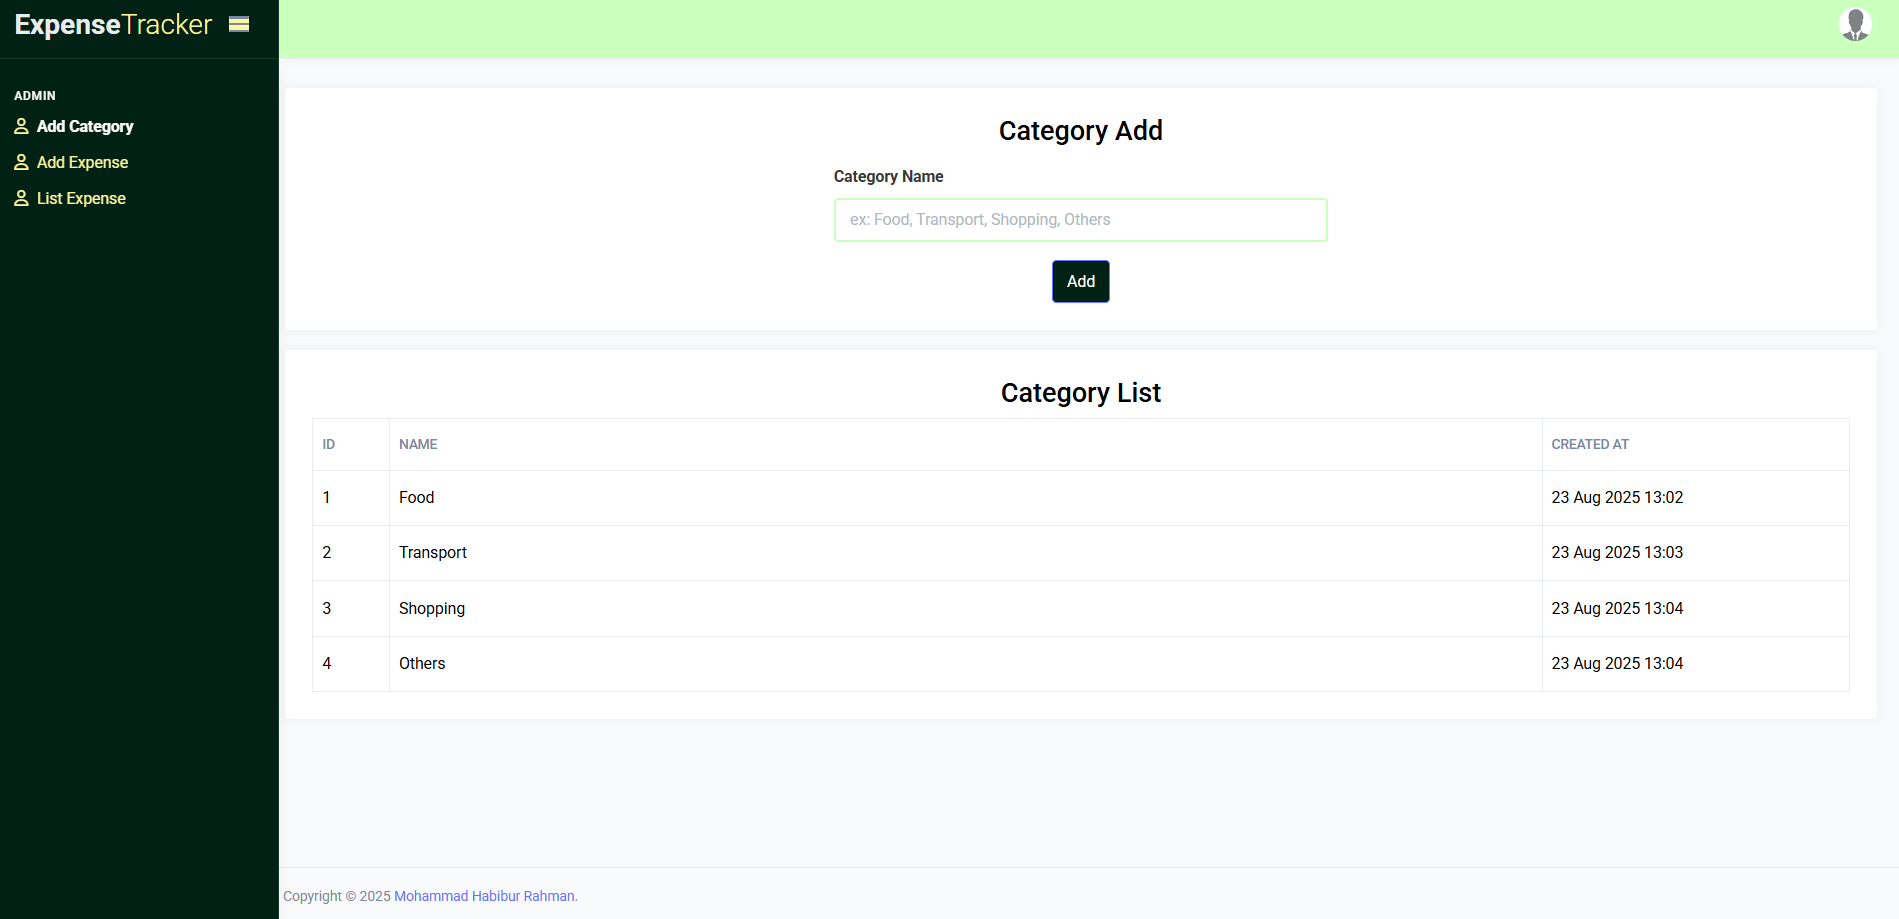
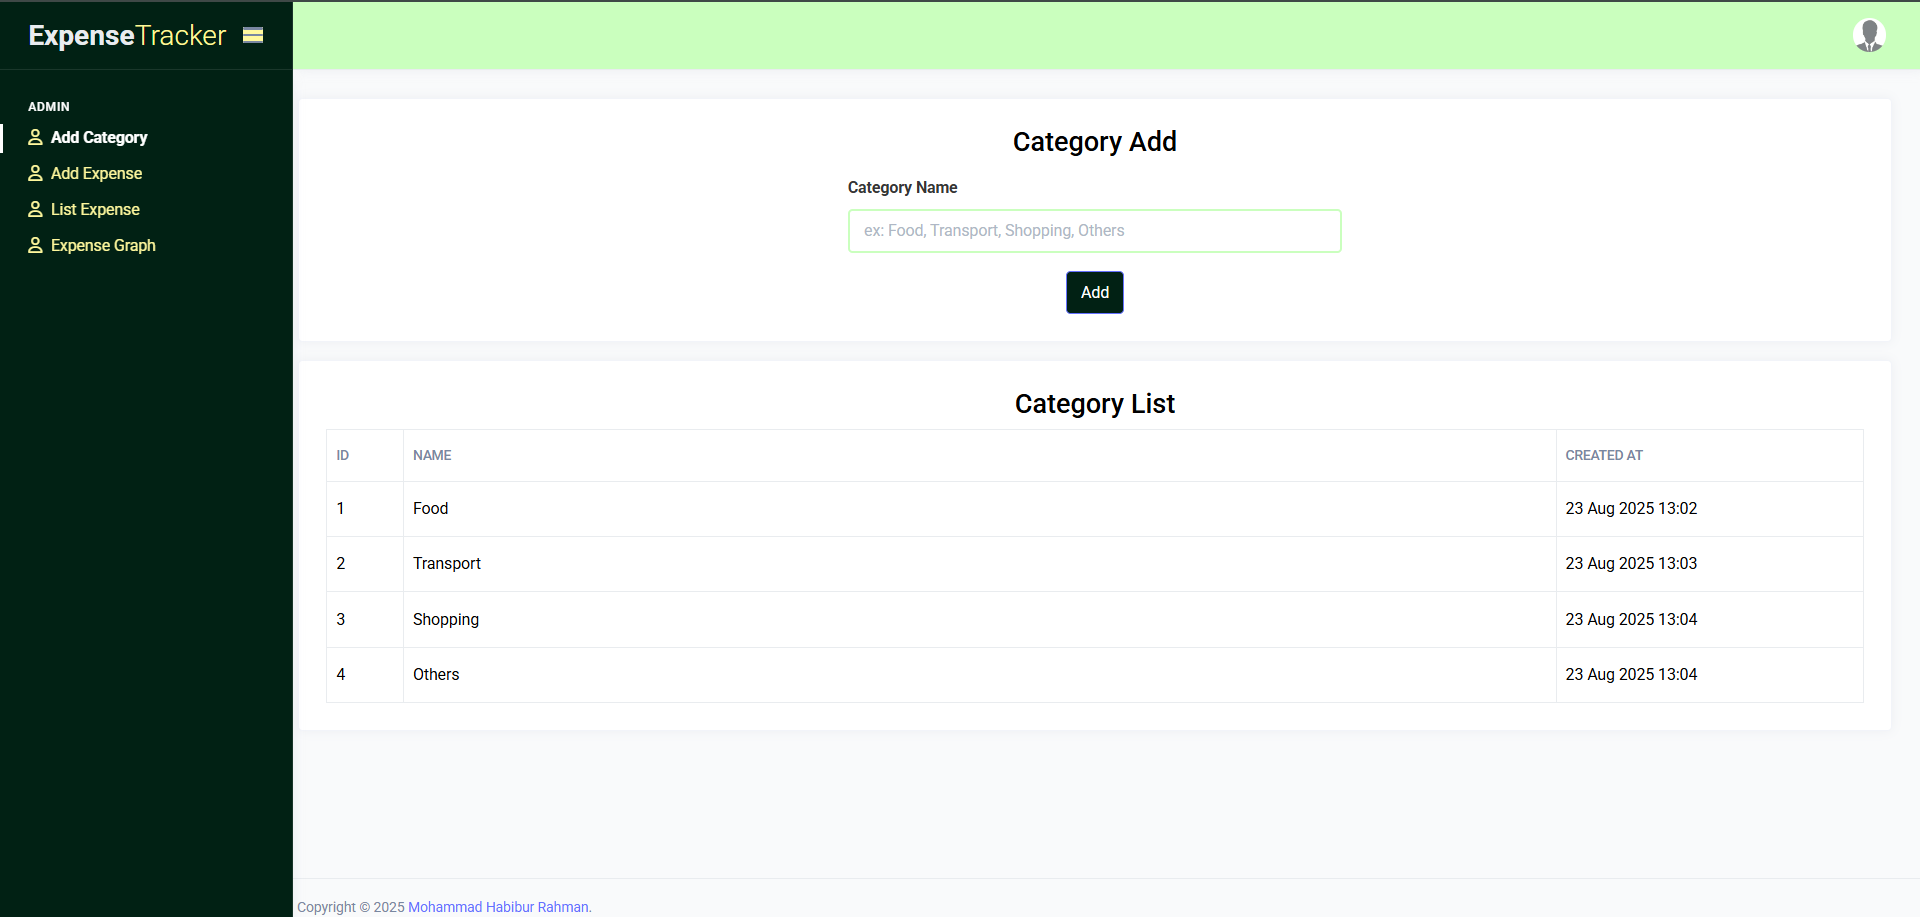
added-chart

diff --git a/resources/views/backend/pages/list_expense.blade.php b/resources/views/backend/pages/list_expense.blade.php
@@ -1,24 +1,17 @@
 @extends('backend.includes.backend_layout')
+
 @section('content')
 <div class="page-content">
     <div class="row justify-content-center">
-        <div class="col-md-10">
+        <div class="col-md-11">
             <div class="card">
                 <div class="card-body">
-                    <h3 class="text-center mb-2">{{ $data['page_title'] }}</h3>
-
-                    @if(session('success'))
-                        <div class="alert alert-success">{{ session('success') }}</div>
-                    @endif
-
                     <table class="table table-bordered">
                         <thead>
                             <tr class="table-primary">
                                 <th colspan="3" class="text-end fw-bold text-danger">Total Amount:</th>
                                 <th class="fw-bold text-danger">{{ $data['expenses']->sum('amount') }}</th>
                             </tr>
-
-
                             <tr>
                                 <th>ID</th>
                                 <th>Category</th>
@@ -29,7 +22,7 @@
                         <tbody>
                             @forelse($data['expenses'] as $index => $expense)
                                 <tr>
-                                    <td>{{ $index+1 }}</td>
+                                    <td>{{ $index + 1 }}</td>
                                     <td>{{ $expense->category->name ?? 'N/A' }}</td>
                                     <td>{{ $expense->title }}</td>
                                     <td>{{ $expense->amount }}</td>
@@ -41,10 +34,9 @@
                             @endforelse
                         </tbody>
                     </table>
-
                 </div>
             </div>
         </div>
     </div>
 </div>
-@endsection
+@endsection 

diff --git a/app/Http/Controllers/backend/ExpenseController.php b/app/Http/Controllers/backend/ExpenseController.php
@@ -1,8 +1,8 @@
 <?php
 
 namespace App\Http\Controllers\backend;
-
 use PDOException;
+use Carbon\Carbon;
 use App\Models\Expense;
 use App\Models\Category;
 use Illuminate\Http\Request;
@@ -21,13 +21,12 @@ class ExpenseController extends Controller implements HasMiddleware
 
     public function expense(Request $request)
     {
-        // Fetch all categories for the dropdown
         $categories = Category::all();
 
         $data = [
             'active_menu' => 'expense',
             'page_title'  => 'Add Expense',
-            'categories'  => $categories, // <-- send to Blade
+            'categories'  => $categories,
         ];
 
         if ($request->isMethod('post')) {
@@ -58,4 +57,27 @@ class ExpenseController extends Controller implements HasMiddleware
 
         return view('backend.pages.list_expense', compact('data'));
     }
+
+    public function monthlyReport()
+    {
+        $expenses = Expense::with('category')
+            ->whereYear('created_at', Carbon::now()->year)
+            ->whereMonth('created_at', Carbon::now()->month)
+            ->get();
+
+       
+        $grouped = $expenses->groupBy(fn($item) => $item->category->name ?? 'Others')
+        ->map(fn($group) => $group->sum('amount'));
+
+        $data = [
+            'active_menu' => 'monthly_report',
+            'page_title'  => 'Monthly Expenses Report',
+            'categories' => $grouped->keys()->toArray(),
+            'totals'     => $grouped->values()->toArray(),
+            'expenses'   => $expenses,
+        ];
+
+        return view('backend.pages.monthly_report', compact('data'));
+    }
+
 }

diff --git a/resources/views/backend/includes/sidebar.blade.php b/resources/views/backend/includes/sidebar.blade.php
@@ -1,4 +1,3 @@
-<!-- partial:partials/_sidebar.html -->
 <nav class="sidebar">
     <div class="sidebar-header">
         <a href="{{ url('/') }}" class="sidebar-brand">
@@ -13,7 +12,7 @@
     <div class="sidebar-body">
         <ul class="nav">
                 <li class="nav-item nav-category">Admin</li>
-                <!--   Expense Tracking   -->
+
                 <li class="nav-item {{ $data['active_menu'] == 'category' ? 'active' : '' }}">
                     <a class="nav-link" href="{{ route('admin.category') }}">
                         <i class="fa-regular fa-user"></i>
@@ -27,7 +26,6 @@
                         <i class="fa-regular fa-user"></i>
                         <span class="link-title">Add Expense</span>
                     </a>
-
                 </li>
                 <li class="nav-item {{ $data['active_menu'] == 'expense_list' ? 'active' : '' }}">
                     <a class="nav-link" href="{{ route('admin.expense_list') }}">
@@ -35,6 +33,11 @@
                         <span class="link-title">List Expense</span>
                     </a>
                 </li>
-
+                <li class="nav-item {{ $data['active_menu'] == 'monthly_report' ? 'active' : '' }}">
+                    <a class="nav-link" href="{{ route('admin.monthly.report') }}">
+                        <i class="fa-regular fa-user"></i>
+                        <span class="link-title">Expense Graph</span>
+                    </a>
+                </li>
         </ul>
 </nav>

diff --git a/resources/views/backend/pages/monthly_report.blade.php b/resources/views/backend/pages/monthly_report.blade.php
@@ -1,0 +1,39 @@
+@extends('backend.includes.backend_layout')
+
+@section('content')
+<div class="page-content">
+    <div class="row justify-content-center">
+        <div class="col-md-11">
+            <div class="card">
+                <div class="card-body">
+                    <h3 class="text-center">{{ $data['page_title'] }}</h3>
+                    <canvas id="monthlyChart" style="width:100%; height:400px;"></canvas>
+                </div>
+            </div>
+        </div>
+    </div>
+</div>
+
+<script src="https://cdn.jsdelivr.net/npm/chart.js"></script>
+<script>
+    new Chart(document.getElementById('monthlyChart'), {
+        type: 'bar',
+        data: {
+            labels: @json($data['categories']),
+            datasets: [{
+                label: 'Total Expenses',
+                data: @json($data['totals']), 
+                backgroundColor: 'rgba(75, 192, 192, 0.6)',
+                borderColor: 'rgba(75, 192, 192, 1)',
+                borderWidth: 1
+            }]
+        },
+        options: {
+            responsive: true,
+            scales: {
+                y: { beginAtZero: true }
+            }
+        }
+    });
+</script>
+@endsection

diff --git a/resources/views/backend/pages/add_expense.blade.php b/resources/views/backend/pages/add_expense.blade.php
@@ -15,7 +15,7 @@
                         @csrf
                         <div class="mb-3">
                             <label class="form-label">Category</label>
-                            <select name="category_id" class="form-control" required>
+                            <select name="category_id" class="form-select js-example-basic-single" required>
                                 <option value="">Select Category</option>
                                 @foreach($data['categories'] as $category)
                                     <option value="{{ $category->id }}">{{ $category->name }}</option>

diff --git a/routes/web.php b/routes/web.php
@@ -33,6 +33,8 @@ Route::prefix('admin')->group(function () {
 
             Route::match(['get', 'post'], 'expense', [ExpenseController::class, 'expense'])->name('expense');
             Route::get('expense/list', [ExpenseController::class, 'expense_list'])->name('expense_list');
+            Route::get('monthly-report', [ExpenseController::class, 'monthlyReport'])->name('monthly.report');
+
 
            
         });

diff --git a/resources/views/backend/includes/backend_layout.blade.php b/resources/views/backend/includes/backend_layout.blade.php
@@ -41,6 +41,7 @@
     <!--date picker end-->
     <link rel="stylesheet" href="{{ asset('backend_assets/vendors/select2/select2.min.css') }}">
     @stack('css')
+    @stack('scripts')
 
     <!-- Layout styles -->
     <link rel="stylesheet" href="{{ asset('backend_assets/css/custom.css') }}">

diff --git a/app/Http/Controllers/backend/CategoryController.php b/app/Http/Controllers/backend/CategoryController.php
@@ -19,7 +19,6 @@ class CategoryController extends Controller implements HasMiddleware
     }
 
 
-    // GET → show form
     public function category()
     {
         $data = [
